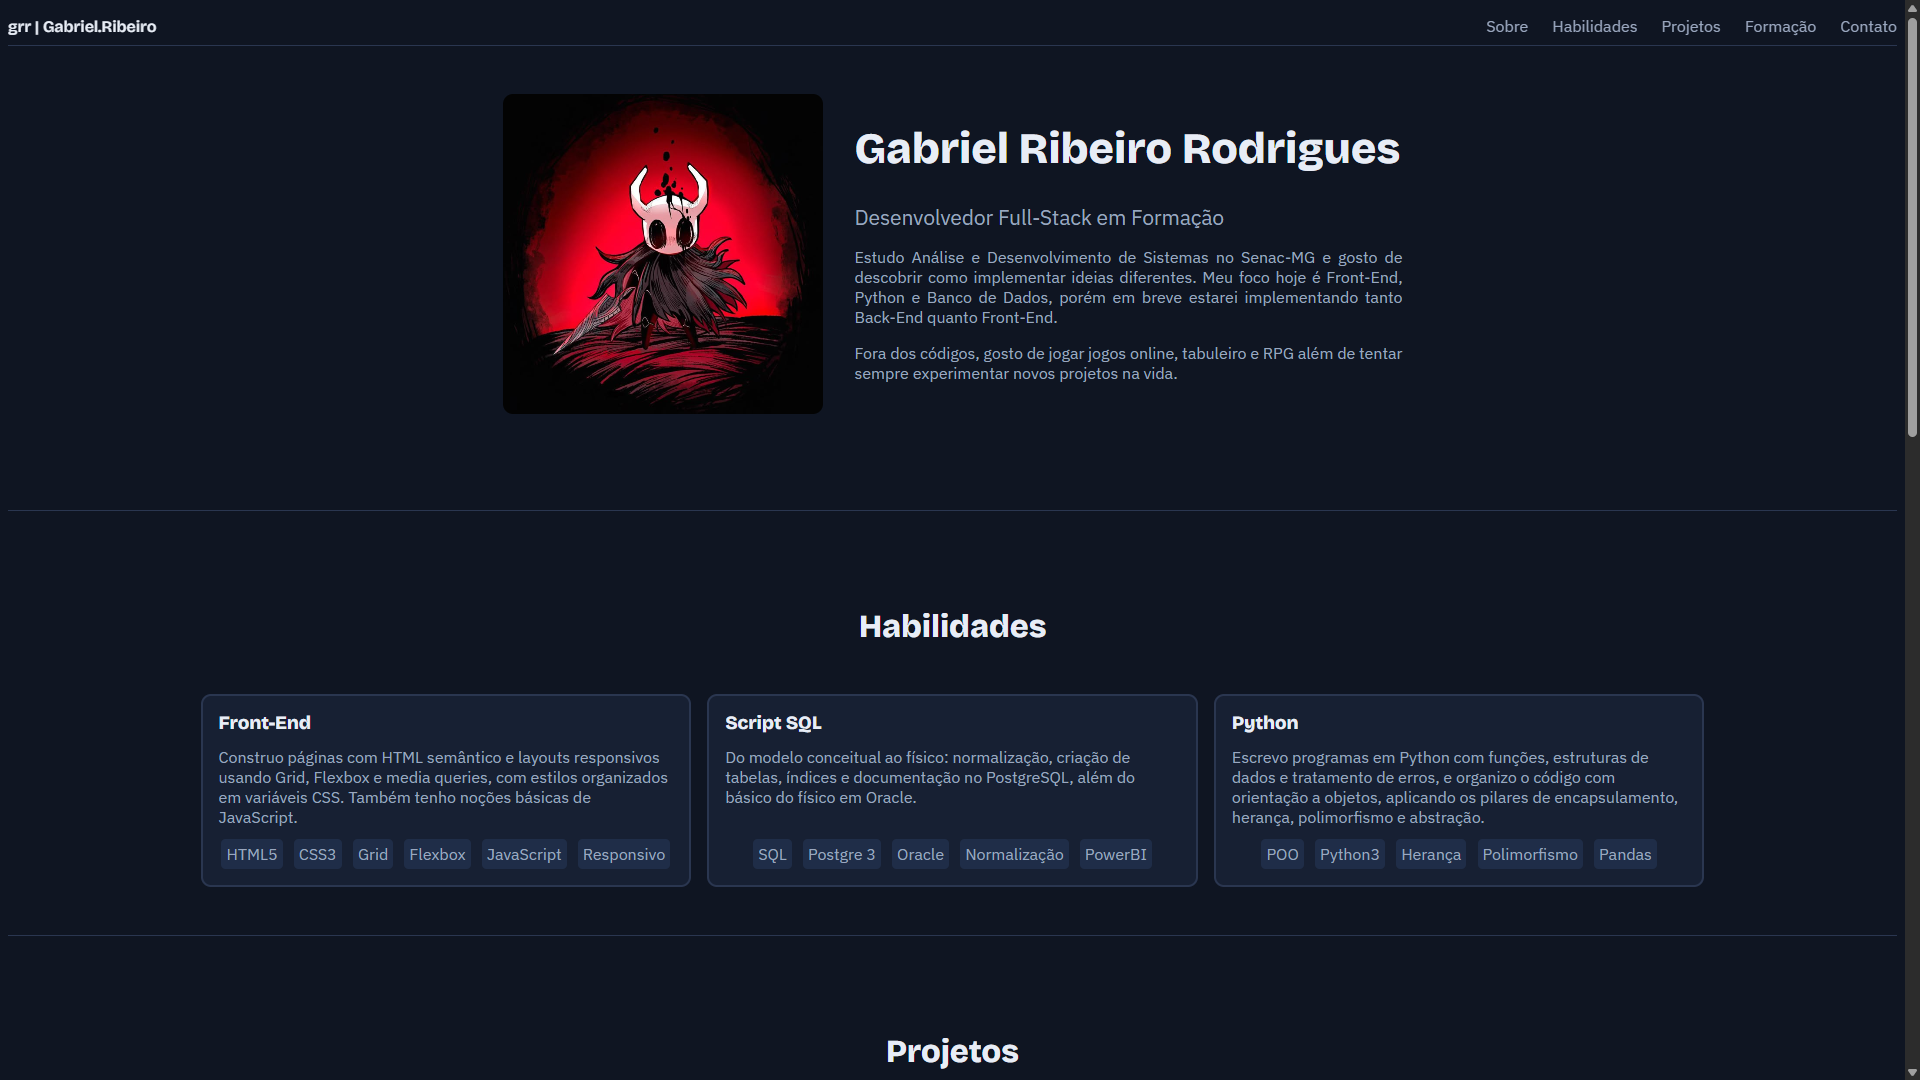
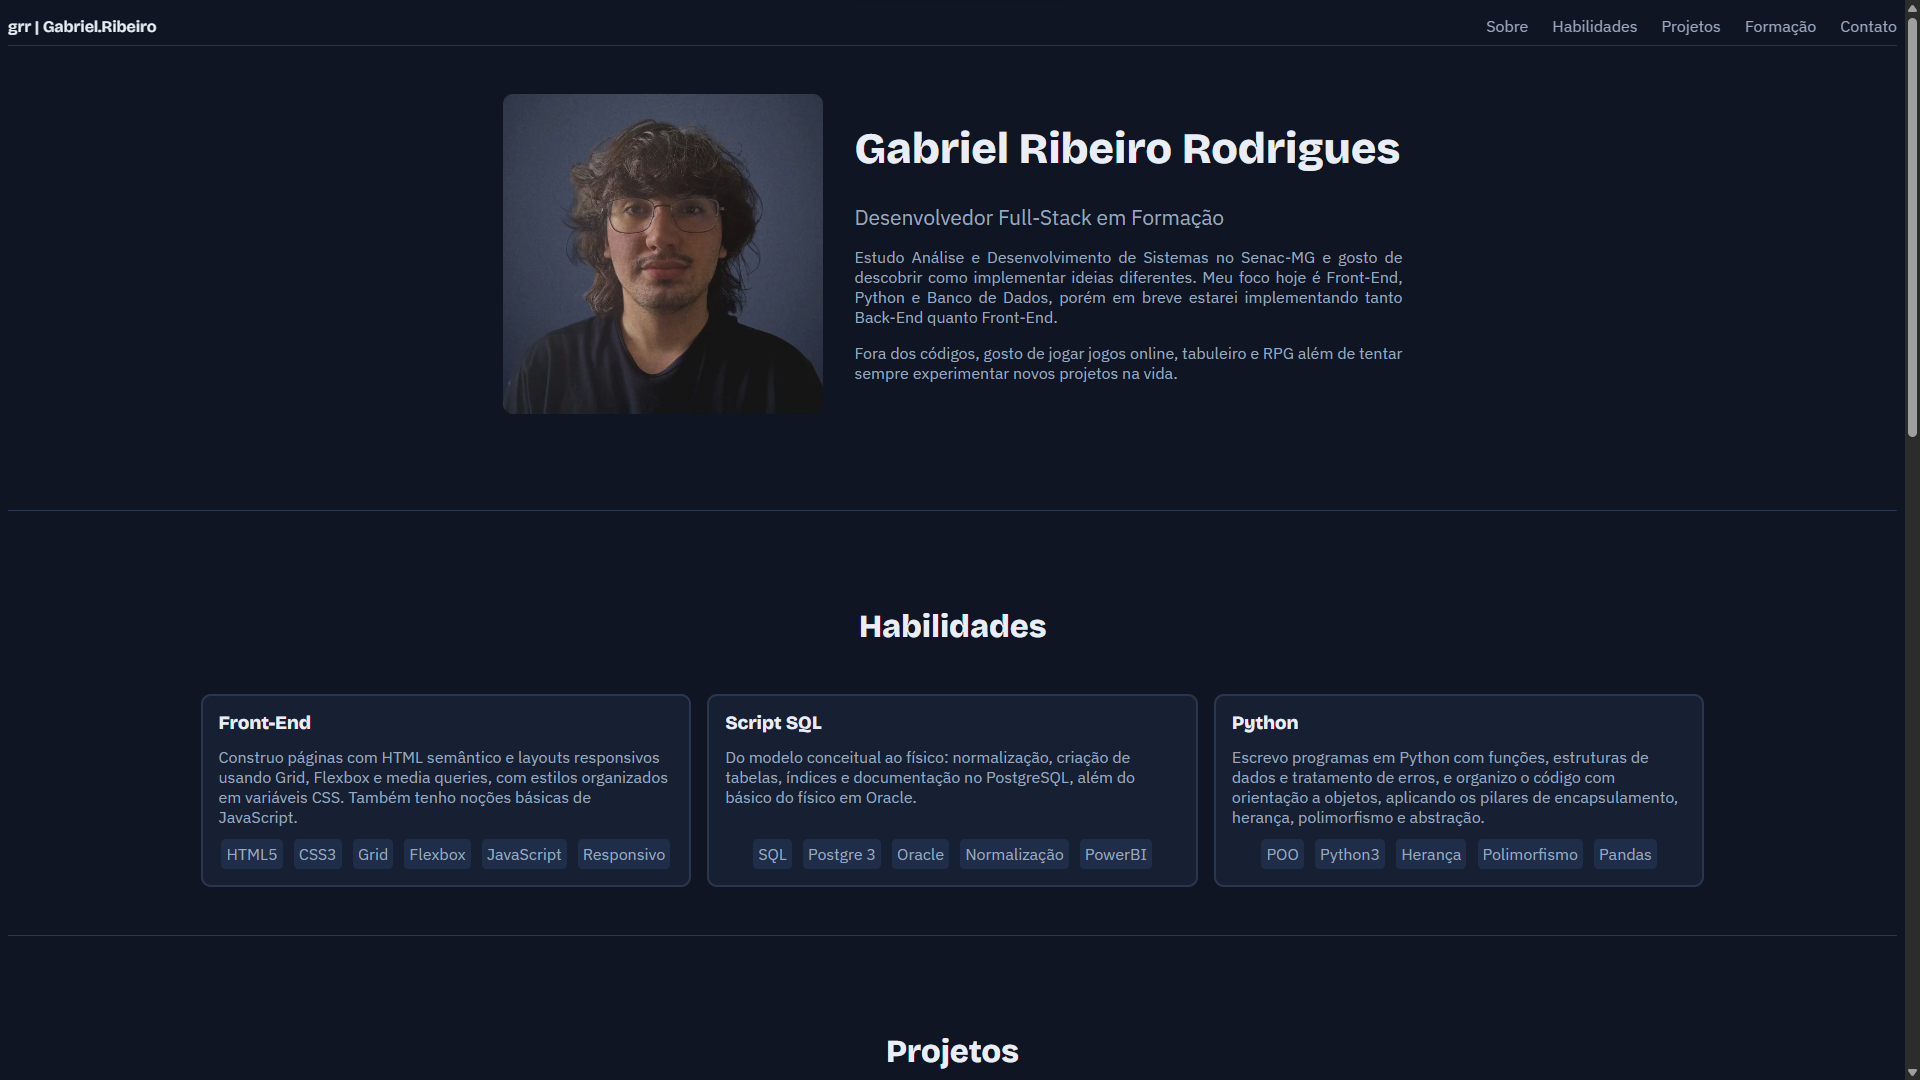
foto do perfil que esqueci de trocar

Changed region(s): [[0.25, 0.0611, 0.4375, 0.3972]]

diff --git a/index.html b/index.html
@@ -28,7 +28,7 @@
 
   <main>
     <section id="sobre" class="sobre">
-      <img src="img/placeholder.jpg" alt="Gabriel Ribeiro" class="profile">
+      <img src="img/profile.jpg" alt="Gabriel Ribeiro" class="profile">
       <div class="desc-self">
         <h1>Gabriel Ribeiro Rodrigues</h1>
         <div class="adjetivo">Desenvolvedor Full-Stack em Formação</div>
